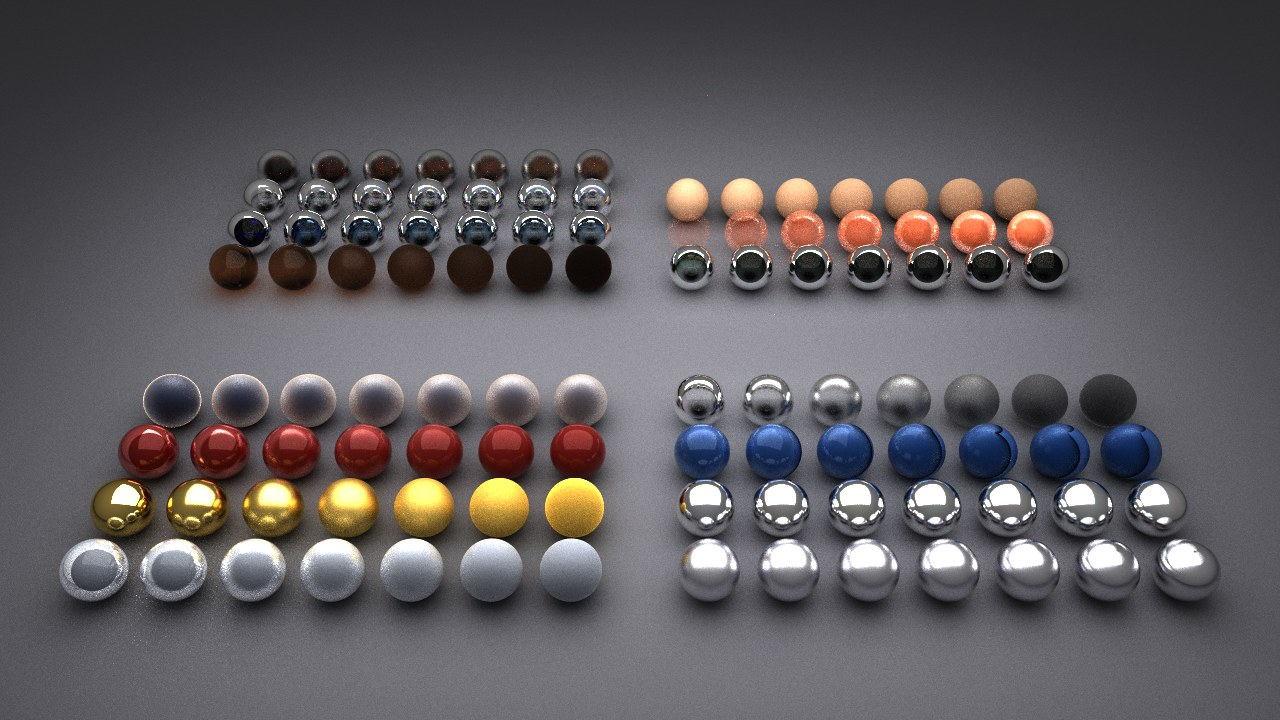
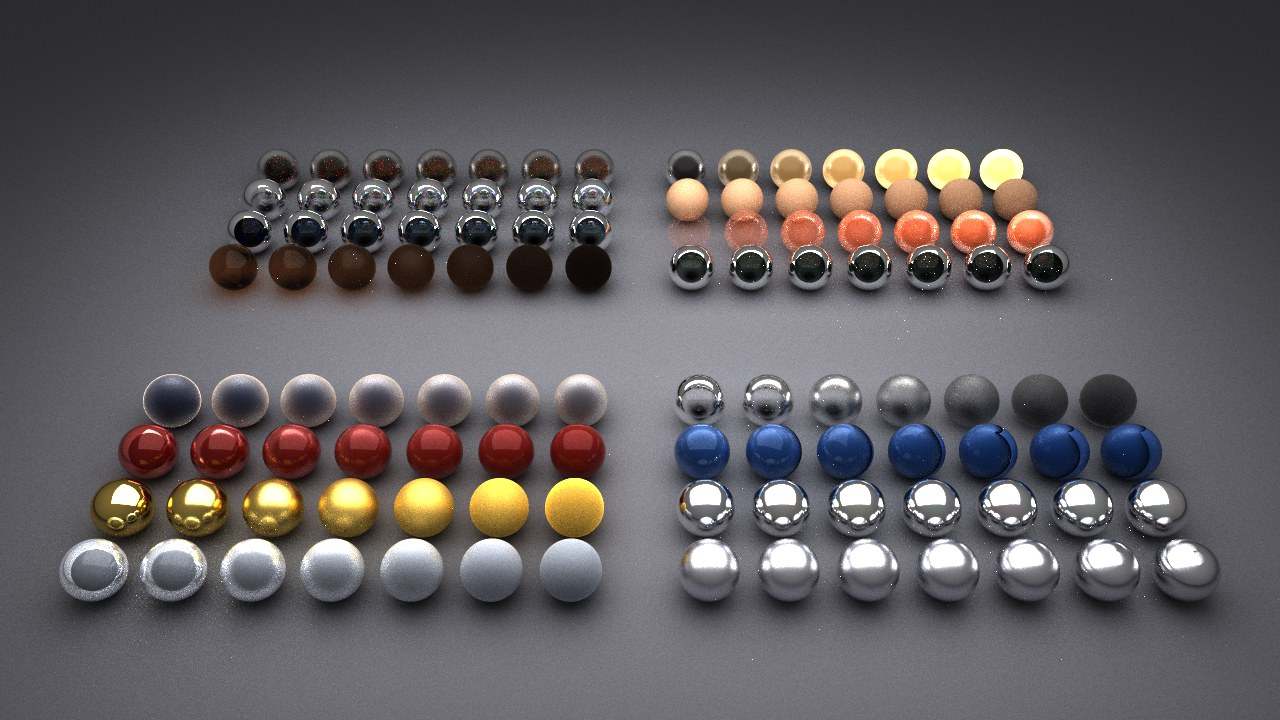
sv examples: an emission row, and a ground the frame cannot overshoot
openpbr-spheres swept fifteen of the model's axes and not emission, which left
the fourth block three rows short of full.
The new row sweeps `emission_luminance` over a warm tint on a near-black base,
so the low columns show the parameter rather than the key light.
Sixteen rows is what fills the four blocks exactly.

The ground quad was sized from the grid, so the frame reached past its edge and
a hard horizon line crossed the picture.
It is sized against what the camera can see now, and the floor falls off into a
gradient instead.

Changed region(s): [[0.5, 0.1833, 0.8125, 0.275], [0.2188, 0.3056, 0.4688, 0.3361], [0.5312, 0.3667, 0.5625, 0.3972]]

diff --git a/libs/graphics/shaped-viewer/examples/openpbr-spheres.cc b/libs/graphics/shaped-viewer/examples/openpbr-spheres.cc
@@ -17,12 +17,13 @@ using namespace cc::primitive_defines;
 // attribute no row mentions keeps the specification's own default.
 //
 // `make_rows` is the list: dielectric, metal, coated, fuzz, anisotropic, thin film, coat normal, glass, thin walled,
-// absorbing, dispersion, subsurface, scattering, opacity, diffuse.
+// absorbing, dispersion, subsurface, scattering, opacity, diffuse, emission.
 // Each carries its own comment where the parameters need one.
 //
 // They are laid out in BLOCKS rather than in one file running away from the camera, filled in reading order: near-left,
 // near-right, far-left, far-right.
 // Depth is what a row's legibility is spent on and there is only so much of it — see `rows_per_block`.
+// Sixteen rows is what fills those four blocks exactly, so a seventeenth starts a fifth and leaves three holes beside it.
 //
 // Run it:
 //   uv run dev.py example shaped-viewer/openpbr-spheres
@@ -33,10 +34,10 @@ constexpr int column_count = 7; // roughness samples per row
 constexpr float sphere_radius = 0.45f;
 constexpr float spacing = 1.15f;
 
-/// How the fifteen rows are broken up, since fifteen of them behind one another is not something a camera can fix.
+/// How the sixteen rows are broken up, since sixteen of them behind one another is not something a camera can fix.
 ///
 /// What separates two rows on screen is `spacing * sin(elevation)`, and elevation falls away toward the horizon whatever the
-/// camera does: fifteen rows in one file put the far ones at about 19 degrees, a third of a diameter apart, which is the
+/// camera does: sixteen rows in one file put the far ones at about 19 degrees, a third of a diameter apart, which is the
 /// overlapping-crescents look.
 /// Raising `spacing` lifts the far rows out of the frame long before it separates them.
 ///
@@ -50,6 +51,16 @@ constexpr int blocks_across = 2;
 /// Bare floor between neighbouring blocks, so the grid reads as four groups rather than as one wide slab.
 constexpr float block_gap_x = 2.0f;
 constexpr float block_gap_z = 2.5f;
+
+/// How far the ground reaches, which must be far enough that its EDGE is never in frame.
+///
+/// The top of the frame leaves the camera below horizontal, so it meets the ground at a finite distance — around 30 units
+/// out at this pose, and further as the lens widens.
+/// A quad past that puts floor behind every pixel, and what would otherwise be a hard line across the picture becomes the
+/// gradient the floor falls off into.
+/// Sized against the CAMERA rather than against the grid: a ground that follows the grid is exactly the one the frame
+/// overshoots.
+constexpr float ground_half_size = 200.0f;
 
 /// An indexed UV sphere of `radius`, centered on the origin, wound so every face's geometric normal points outward.
 ///
@@ -308,6 +319,23 @@ struct sweep_row
                                binding::of("specular_weight", 0.0f)},
                     .swept = "base_diffuse_roughness"});
 
+    // Luminance, swept across the range the tonemapper still separates: the near columns read as a tinted surface that
+    // happens to glow and the far ones clip to the emission color.
+    // One nit is one unit of radiance here, the same as the key light's, so the row is scaled against `nits` above rather
+    // than against a number that looked right.
+    //
+    // A dark base is what makes it a sweep of EMISSION: emission adds to the surface, so a lit base would carry the low
+    // columns and the first half of the row would show the light rather than the parameter.
+    // What it cannot show is an emitter lighting anything — next-event estimation samples the analytic lights alone, so
+    // these spheres are visible to the camera and invisible to their neighbours.
+    rows.push_back(
+        {.name = "emission",
+         .shared = {binding::of("base_color", tg::vec3f(0.05f, 0.05f, 0.06f)), binding::of("specular_roughness", 0.3f),
+                    binding::of("emission_color", tg::vec3f(1.0f, 0.72f, 0.35f))},
+         .swept = "emission_luminance",
+         .from = 0.02f,
+         .to = 1.5f});
+
     return rows;
 }
 
@@ -406,13 +434,13 @@ EXAMPLE("shaped-viewer/openpbr-spheres")
         = float(column_count - 1) * spacing * float(blocks_across) + block_gap_x * float(blocks_across - 1);
     float const grid_depth = float(rows_per_block * block_bands - 1) * spacing + block_gap_z * float(block_bands - 1);
 
-    auto const floor = sv::mesh{.name = "ground",
-                                .geometry = sv::triangle_geometry::create_from_positions(
-                                    ground_quad(0.0f, cc::max(grid_width, grid_depth) + 8.0f)),
-                                .material = lib.acquire(sv::material::create(
-                                    "ground", lib.acquire_type(sv::builtin_material::openpbr).value(),
-                                    {sv::material_attribute_binding::of("base_color", tg::vec3f(0.32f, 0.32f, 0.34f)),
-                                     sv::material_attribute_binding::of("specular_roughness", 0.55f)}))};
+    auto const floor
+        = sv::mesh{.name = "ground",
+                   .geometry = sv::triangle_geometry::create_from_positions(ground_quad(0.0f, ground_half_size)),
+                   .material = lib.acquire(sv::material::create(
+                       "ground", lib.acquire_type(sv::builtin_material::openpbr).value(),
+                       {sv::material_attribute_binding::of("base_color", tg::vec3f(0.32f, 0.32f, 0.34f)),
+                        sv::material_attribute_binding::of("specular_roughness", 0.55f)}))};
 
     for (auto f : sv::interactive("shaped-viewer/openpbr-spheres"))
     {
@@ -423,7 +451,7 @@ EXAMPLE("shaped-viewer/openpbr-spheres")
         // The blocked layout is what makes a camera possible at all: the grid is about 16 wide against 11 deep, which
         // perspective compresses to roughly the frame's own aspect, so what fills the picture is spheres rather than floor.
         // From 13 units up the last row still sits about 34 degrees above the horizon, which is two thirds of a diameter
-        // between rows; the same fifteen rows in one file put the far ones at 19 and half-buried in the row in front.
+        // between rows; the same sixteen rows in one file put the far ones at 19 and half-buried in the row in front.
         // The pitch is the depression to the middle of the grid, so the near and far ends sit equally far off centre, and
         // the lens is what the NEAR CORNERS need — they are the widest thing in the frame, not the far ones.
         //
